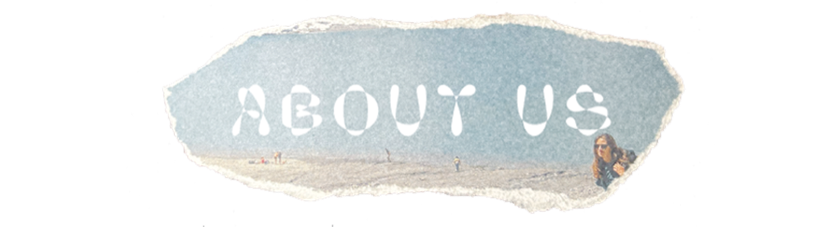
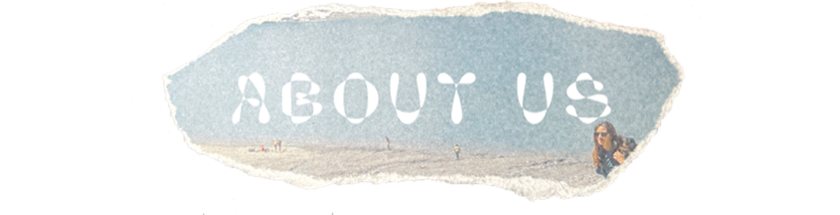
fix: trim transparent rows from nav pngs for even desktop spacing
The previous mobile fix compensated for transparent padding in the source
840×227 PNGs by applying scaled negative top/bottom margins. The math was
correct in isolation, but the logo wasn't part of the scheme (it sat below
Media with no compensating top margin) and visible distances drifted on
desktop where the scale factor is larger.

Trim each PNG's transparent rows in place (alpha > 32) so the bounding box
matches the visible torn-paper content. With that, the flex gap-2/md:gap-4
on the parent distributes evenly between visible edges, including to the
logo — no margin compensation needed. Each navItem now declares its own
srcHeight for aspect-correct rendering.

diff --git a/apps/web/src/app/page.tsx b/apps/web/src/app/page.tsx
@@ -7,21 +7,19 @@ import { motion, useMotionValue } from "framer-motion";
 import { useRef, useCallback } from "react";
 import { useIsMobile } from "@/hooks/useIsMobile";
 
-// Nav images are 840×227 source PNGs with torn-paper content surrounded by
-// transparent space. topPad/botPad are the transparent rows above/below the
-// visible content in source pixels — we trim them with scaled negative margins
-// so the flex gap distributes evenly between visible edges, not bounding boxes.
+// Nav PNGs are 840px wide; srcHeight is each PNG's source height after
+// trimming transparent rows above/below the torn-paper artwork. Flex gap is
+// applied between visible edges directly — no margin compensation needed.
 const navItems = [
-  { label: "Support an Idea", href: "/support", image: "/images/nav/support-an-idea.png", rotation: -2, offsetX: -15, topPad: 0, botPad: 0 },
-  { label: "Pitch an Idea", href: "/propose", image: "/images/nav/pitch-an-idea.png", rotation: 1.5, offsetX: 20, topPad: 13, botPad: 26 },
-  { label: "About Us", href: "/about", image: "/images/nav/about-us.png", rotation: -1, offsetX: -8, topPad: 12, botPad: 0 },
-  { label: "Events", href: "/events", image: "/images/nav/events.png", rotation: 2.5, offsetX: 10, topPad: 19, botPad: 26 },
-  { label: "Media", href: "/media", image: "/images/nav/media.png", rotation: -1.5, offsetX: -18, topPad: 25, botPad: 24 },
+  { label: "Support an Idea", href: "/support", image: "/images/nav/support-an-idea.png", rotation: -2, offsetX: -15, srcHeight: 226 },
+  { label: "Pitch an Idea", href: "/propose", image: "/images/nav/pitch-an-idea.png", rotation: 1.5, offsetX: 20, srcHeight: 188 },
+  { label: "About Us", href: "/about", image: "/images/nav/about-us.png", rotation: -1, offsetX: -8, srcHeight: 215 },
+  { label: "Events", href: "/events", image: "/images/nav/events.png", rotation: 2.5, offsetX: 10, srcHeight: 182 },
+  { label: "Media", href: "/media", image: "/images/nav/media.png", rotation: -1.5, offsetX: -18, srcHeight: 178 },
 ];
 
 const NAV_WIDTH_MOBILE = 200;
 const NAV_WIDTH_DESKTOP = 280;
-const NAV_ASPECT = 840 / 227;
 const NAV_SOURCE_WIDTH = 840;
 
 // Minimum drag distance (px) before we consider it a drag (not a tap)
@@ -31,17 +29,16 @@ function DraggableNavItem({
   item,
   index,
   navW,
-  navH,
   isMobile,
   constraintsRef,
 }: {
   item: (typeof navItems)[number];
   index: number;
   navW: number;
-  navH: number;
   isMobile: boolean;
   constraintsRef: React.RefObject<HTMLElement | null>;
 }) {
+  const navH = Math.round((navW * item.srcHeight) / NAV_SOURCE_WIDTH);
   const router = useRouter();
   const x = useMotionValue(0);
   const y = useMotionValue(0);
@@ -79,8 +76,6 @@ function DraggableNavItem({
         y,
         transformStyle: "preserve-3d",
         marginLeft: `${isMobile ? item.offsetX * 0.5 : item.offsetX}px`,
-        marginTop: `${-item.topPad * (navW / NAV_SOURCE_WIDTH)}px`,
-        marginBottom: `${-item.botPad * (navW / NAV_SOURCE_WIDTH)}px`,
         cursor: "grab",
         touchAction: "none",
       }}
@@ -184,7 +179,6 @@ export default function Home() {
   const isMobile = useIsMobile();
   const sectionRef = useRef<HTMLElement>(null);
   const navW = isMobile ? NAV_WIDTH_MOBILE : NAV_WIDTH_DESKTOP;
-  const navH = Math.round(navW / NAV_ASPECT);
 
   return (
     <section ref={sectionRef} className="relative h-dvh min-h-screen overflow-hidden">
@@ -199,7 +193,6 @@ export default function Home() {
             item={item}
             index={i}
             navW={navW}
-            navH={navH}
             isMobile={isMobile}
             constraintsRef={sectionRef}
           />
